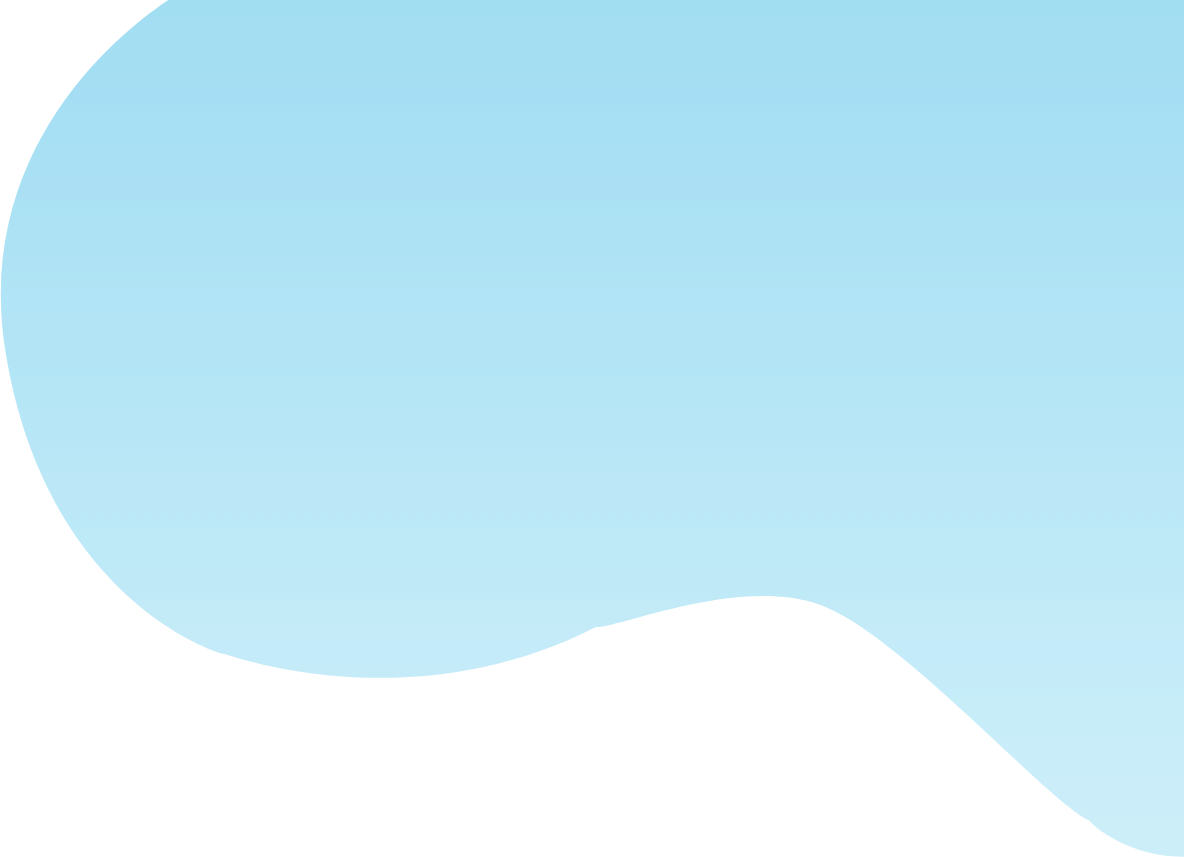
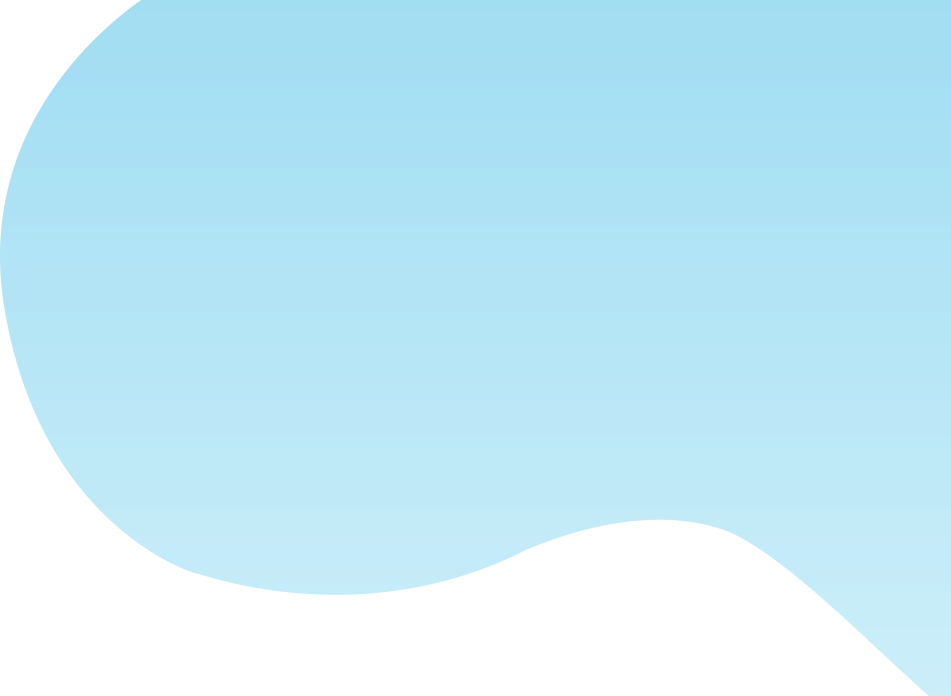
Add files via upload

diff --git a/css/style.css b/css/style.css
@@ -2110,7 +2110,7 @@ input[type="number"] {
   padding: 4em 0;
   background-image: url(../img/bg-right-tabs.png);
   background-size: cover;
-  background-position: 250% 50%;
+  background-position: 550px 50%;
   background-repeat: no-repeat;
   max-width: 100%;
 }

diff --git a/css/_page-tabs.scss b/css/_page-tabs.scss
@@ -3,7 +3,7 @@
     padding: 4em 0;
     background-image: url(../img/bg-right-tabs.png);
     background-size: cover;
-    background-position: 250% 50%;
+    background-position: 550px 50%;
     background-repeat: no-repeat;
     max-width: 100%;
 
